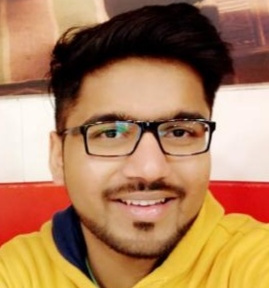
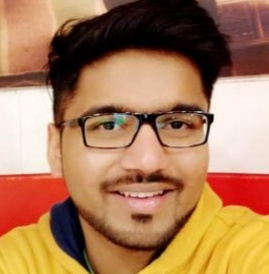
change pic

diff --git a/src/class/index.html b/src/class/index.html
@@ -274,7 +274,7 @@ code {
           <div class="row">
             <div class="column">
               <div class="card">
-                <img src="../../images/batchmates/archit.jpg" alt="Avatar" >
+                <img src="../../images/batchmates/archit3.jpg" alt="Avatar" >
                 <div class="team-container">
                   <div class="name-head"><b>ARCHIT DWIVEDI</b><br></div>
                   <div class="reach-out">
@@ -293,7 +293,7 @@ code {
             </div>
             <div class="column">
               <div class="card">
-                <img src="../../images/batchmates/Raksham.jpg" style="height: auto;" alt="Avatar" >
+                <img src="../../images/batchmates/raksham.jpg" style="height: auto;" alt="Avatar" >
                 <div class="team-container">
                   <div class="name-head"><b>RAKSHAM TIWARI</b></div>
                   <div class="reach-out">

diff --git a/css/class.css b/css/class.css
@@ -43,7 +43,7 @@ padding-right: 10px;
 
 /* Some left and right padding inside the container */
 .team-container {
-padding: 0px 0 0 0px;
+padding: 0px 10px 0 0px;
 }
 
 .team-container .name-head {
